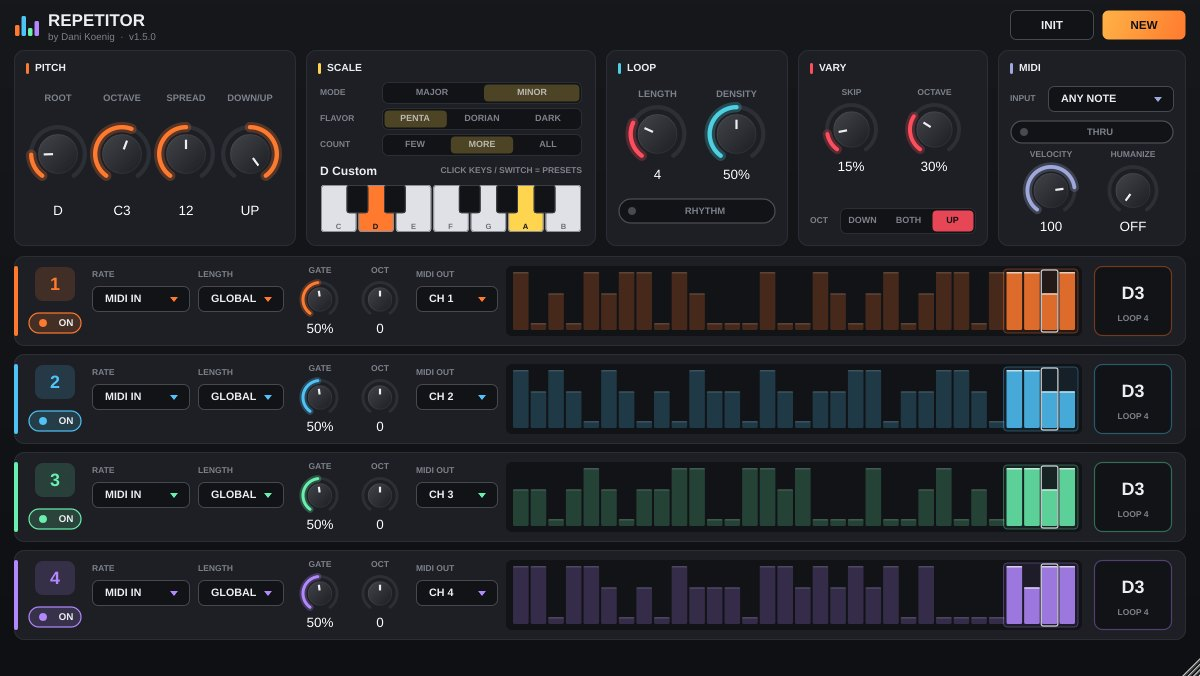
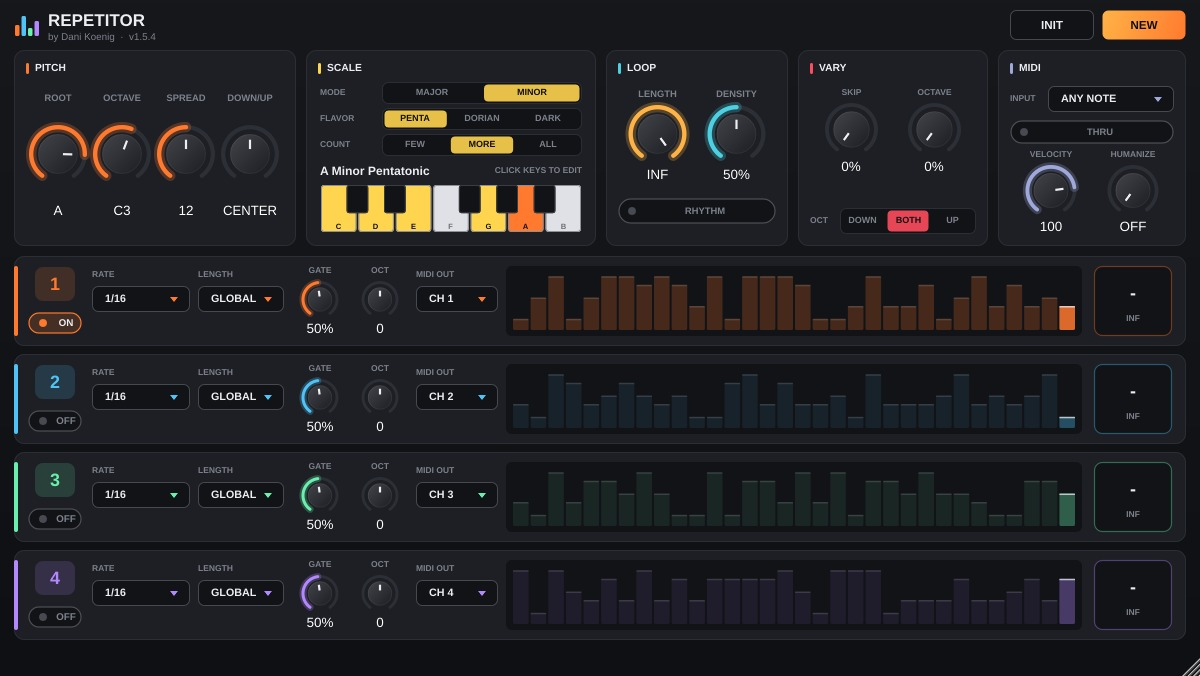
Repetitor 1.5.4: new screenshot, calm-start text, old reel link removed
Claude-Session: https://claude.ai/code/session_01DHh9XkQvdMwzbjC7dUaAGU

diff --git a/index.html b/index.html
@@ -254,10 +254,10 @@ footer p{margin:0;max-width:60ch}
      sub:'The step sequencer from The One as its own plugin. Play a key and 16 steps run from there, in time with your DAW.',
      feat:['16 steps with pitch, octave, slide, accent and on / mute / skip','Slide glides into the next step, like a 303 on a mono synth with glide','Forward, reverse, ping-pong or random order, swing, rate 1/2 to 1/32T','Random variations for pitch, octave and accent while it plays','Grinder Instrument for Ableton Live (MIDI out to other tracks)'],
      meta:['VST3','AU','CLAP','MIDI effect'], reel:'AdwVZ1AL0UI'},
-    {kind:'MIDI generator', repo:'Repetitor', name:'Repetitor', ver:'1.5.3', c:'#a78bfa', img:'repetitor',
+    {kind:'MIDI generator', repo:'Repetitor', name:'Repetitor', ver:'1.5.4', c:'#a78bfa', img:'repetitor',
      sub:'Quad random quantized note generator. Press play and four channels make new notes in your scale. Like it? Loop it.',
-     feat:['4 channels with their own rate and gate, runs right away or on MIDI in','Move the loop box or draw your own loop, 1 to 32 steps','18 scales plus your own scale on the piano keys','Vary and humanize: skipped notes, octave jumps, velocity','Repetitor Instrument for Ableton Live (MIDI out to other tracks)'],
-     meta:['VST3','AU','CLAP','MIDI effect'], reel:'U7TJUvq_EYM', manual:true},
+     feat:['4 channels with their own rate and gate. Starts calm with channel 1 only, switch on 2 to 4 when you want more','Move the loop box or draw your own loop, 1 to 32 steps','18 scales plus your own scale on the piano keys','Vary and humanize: skipped notes, octave jumps, velocity','Repetitor Instrument for Ableton Live (MIDI out to other tracks)'],
+     meta:['VST3','AU','CLAP','MIDI effect'], reel:'', manual:true},
     {kind:'Clipper', repo:'Knack', name:'Knack', ver:'1.0.4', c:'#f0485a', img:'knack', tall:true,
      sub:'Clipper. One big knob pushes your signal into the clip, the curve and the red glow show how hard.',
      feat:['SOFT / HARD slider from round soft clip to hard clip','INPUT with CALIBRATE: loudest peak lands at -6 dBFS','MIX for parallel clipping, latency-compensated','OUTPUT limiter with GR meter, 4x oversampling (HQ)'],
